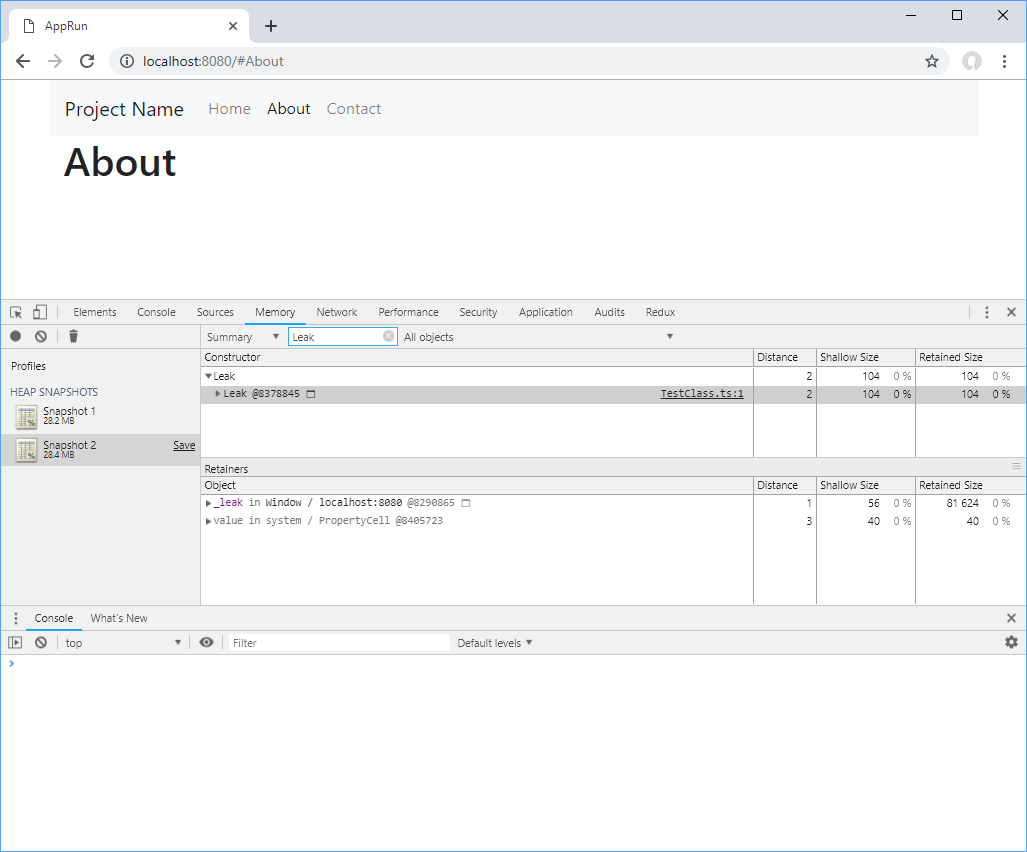
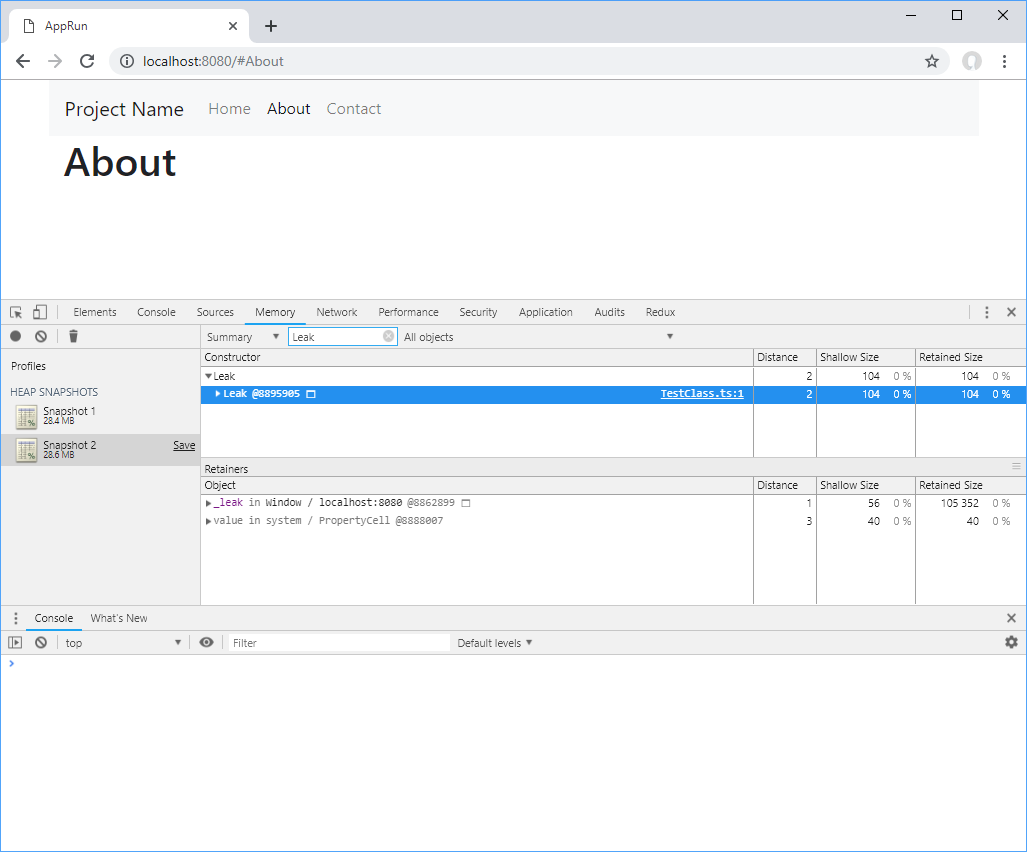
update readme

Changed region(s): [[0.187, 0.4272, 1.0, 0.4883], [0.4051, 0.5798, 0.4362, 0.6103]]

diff --git a/README.md b/README.md
@@ -17,6 +17,11 @@ export default class extends Component {
 ```
 
 Sometimes the 3rd party creates objects in the _window_ object. We can mimic the scenario in the _TestClass, which class creates the _Leak_ class in the _window_ object.
+
+You can see the __leak_ object in the Chrome Developer Tools.
+
+![](0.png)
+
 ```javascript
 
 class Leak { }
@@ -34,7 +39,7 @@ export default class TestClass {
 }
 ```
 
-When switch from the _Home_ page to the _About_ page, the _leak_ object stays in the _window_ object.
+When switch from the _Home_ page to the _About_ page, the __leak_ object stays in the _window_ object.
 
 ![](5.png)
 
@@ -57,7 +62,7 @@ If the 3rd party class provides a function to clean up the resource it uses, we 
   }
 ```
 
-By calling the _destroy_ function in the _MutationObserver_, the _leak_ object is removed from the _window_ object.
+By calling the _destroy_ function in the _MutationObserver_, the __leak_ object is removed from the _window_ object.
 
 ![](4.png)
 
